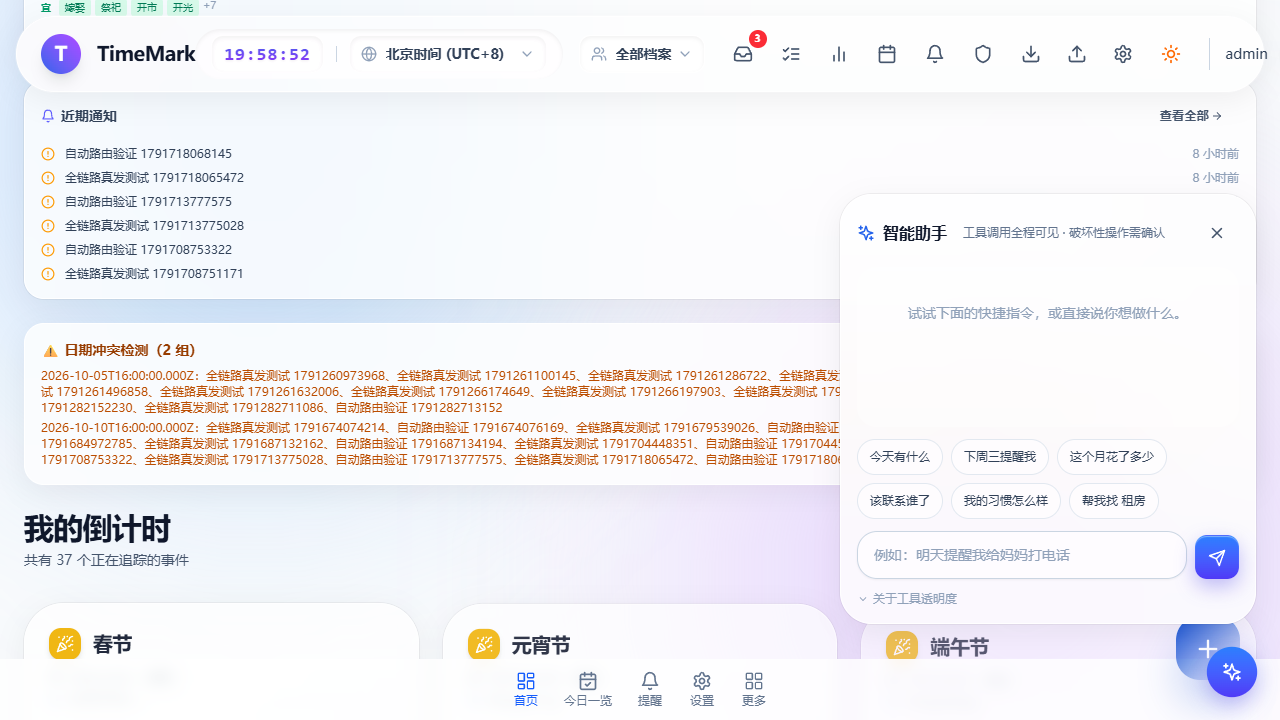
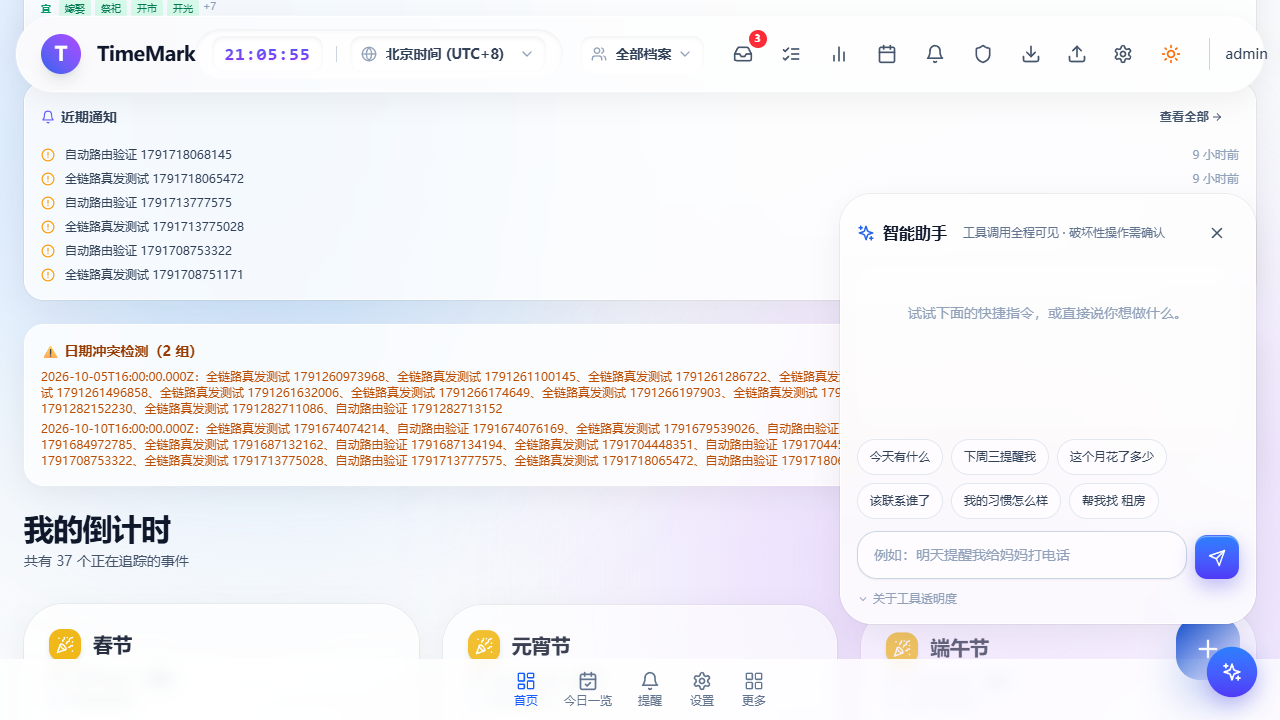
fix(v2.35 R31): dock height chain — the real '太长无法显示/无法上下滑动' root cause
Diagnosed via computed-style probe (dock-diag): the dock wrapper had
max-h-[70vh] but NO overflow clip, and the panel section's h-full resolves to
auto under an auto-height parent → the panel grew to 2000+px, everything below
the fold was unreachable, and the inner list never scrolled (its flex-1 had no
bounded parent to shrink against).

- AssistantDock wrapper: overflow-hidden so max-h actually clips
- AssistantPanel dock variant: h-full → flex-1 min-h-0 (takes over scrolling
  within the bounded 70vh wrapper); message list keeps its own internal scroll
- useAssistant: WEBLLM_TIER_STORAGE_KEY imports from models.ts (was engine.ts —
  a wrong-specifier crash that white-screened the LOGIN page, caught by the new
  login-diag probe)

Verified via computed-style chain: wrapper 482px/hidden → section 482px/auto →
list 160px/auto. Suites: frontend 342 / backend 1756 / shared 203 green.

diff --git a/frontend/src/components/assistant/AssistantDock.tsx b/frontend/src/components/assistant/AssistantDock.tsx
@@ -51,7 +51,10 @@ export function AssistantDock() {
             data-testid="assistant-dock"
             role="dialog"
             aria-label="智能助手"
-            className="fixed bottom-36 right-4 z-40 flex max-h-[70vh] w-[min(92vw,26rem)] flex-col md:bottom-24 md:right-6"
+            // v2.35 R31（用户报告"太长无法显示/无法上下滑动"根因）：max-h 只限制容器、
+            // 内容溢出可见——外层必须 overflow-hidden 才能真正裁到 70vh，让面板内部
+            // 的滚动区接管。
+            className="fixed bottom-36 right-4 z-40 flex max-h-[70vh] w-[min(92vw,26rem)] flex-col overflow-hidden md:bottom-24 md:right-6"
             initial={{ opacity: 0, y: 12, scale: 0.97 }}
             animate={{ opacity: 1, y: 0, scale: 1 }}
             exit={{ opacity: 0, y: 12, scale: 0.97 }}

diff --git a/frontend/src/hooks/useAssistant.ts b/frontend/src/hooks/useAssistant.ts
@@ -7,8 +7,8 @@ import {
   type AgentToolView,
 } from '@/lib/api';
 import { resolveAssistantIntent, type AssistantIntent } from '@/lib/assistant-intent';
-import { answerQuestion, WEBLLM_TIER_STORAGE_KEY } from '@/lib/local-ai/rag';
-import type { WebLlmTierId } from '@/lib/local-ai/engine';
+import { answerQuestion } from '@/lib/local-ai/rag';
+import { WEBLLM_TIER_STORAGE_KEY, type WebLlmTierId } from '@/lib/local-ai/models';
 
 /**
  * checkbox 109: the assistant state machine.

diff --git a/frontend/src/components/assistant/AssistantPanel.tsx b/frontend/src/components/assistant/AssistantPanel.tsx
@@ -355,7 +355,7 @@ export function AssistantPanel({ assistant, variant = 'page', onClose, className
       aria-label="智能助手"
       className={cn(
         'flex flex-col gap-3 rounded-[2rem] glass-panel p-4 ring-1 ring-black/5 dark:ring-white/10',
-        variant === 'dock' ? 'h-full overflow-y-auto overscroll-contain' : 'min-h-[60vh]',
+        variant === 'dock' ? 'min-h-0 flex-1 overflow-y-auto overscroll-contain' : 'min-h-[60vh]',
         className,
       )}
     >

diff --git a/frontend/e2e/dock-scoring.spec.ts b/frontend/e2e/dock-scoring.spec.ts
@@ -21,7 +21,7 @@ test('dock assistant scoring probe', async ({ page }) => {
   }).catch(() => undefined);
 
   // 直接通过 UI 快捷指令触发真实回答
-  const input = page.getByPlaceholder(/说你想做什么|输入/).first();
+  const input = page.getByPlaceholder(/例如：|说你想做什么/).first();
   if (await input.count()) {
     await input.fill('今天有什么');
     await input.press('Enter');
